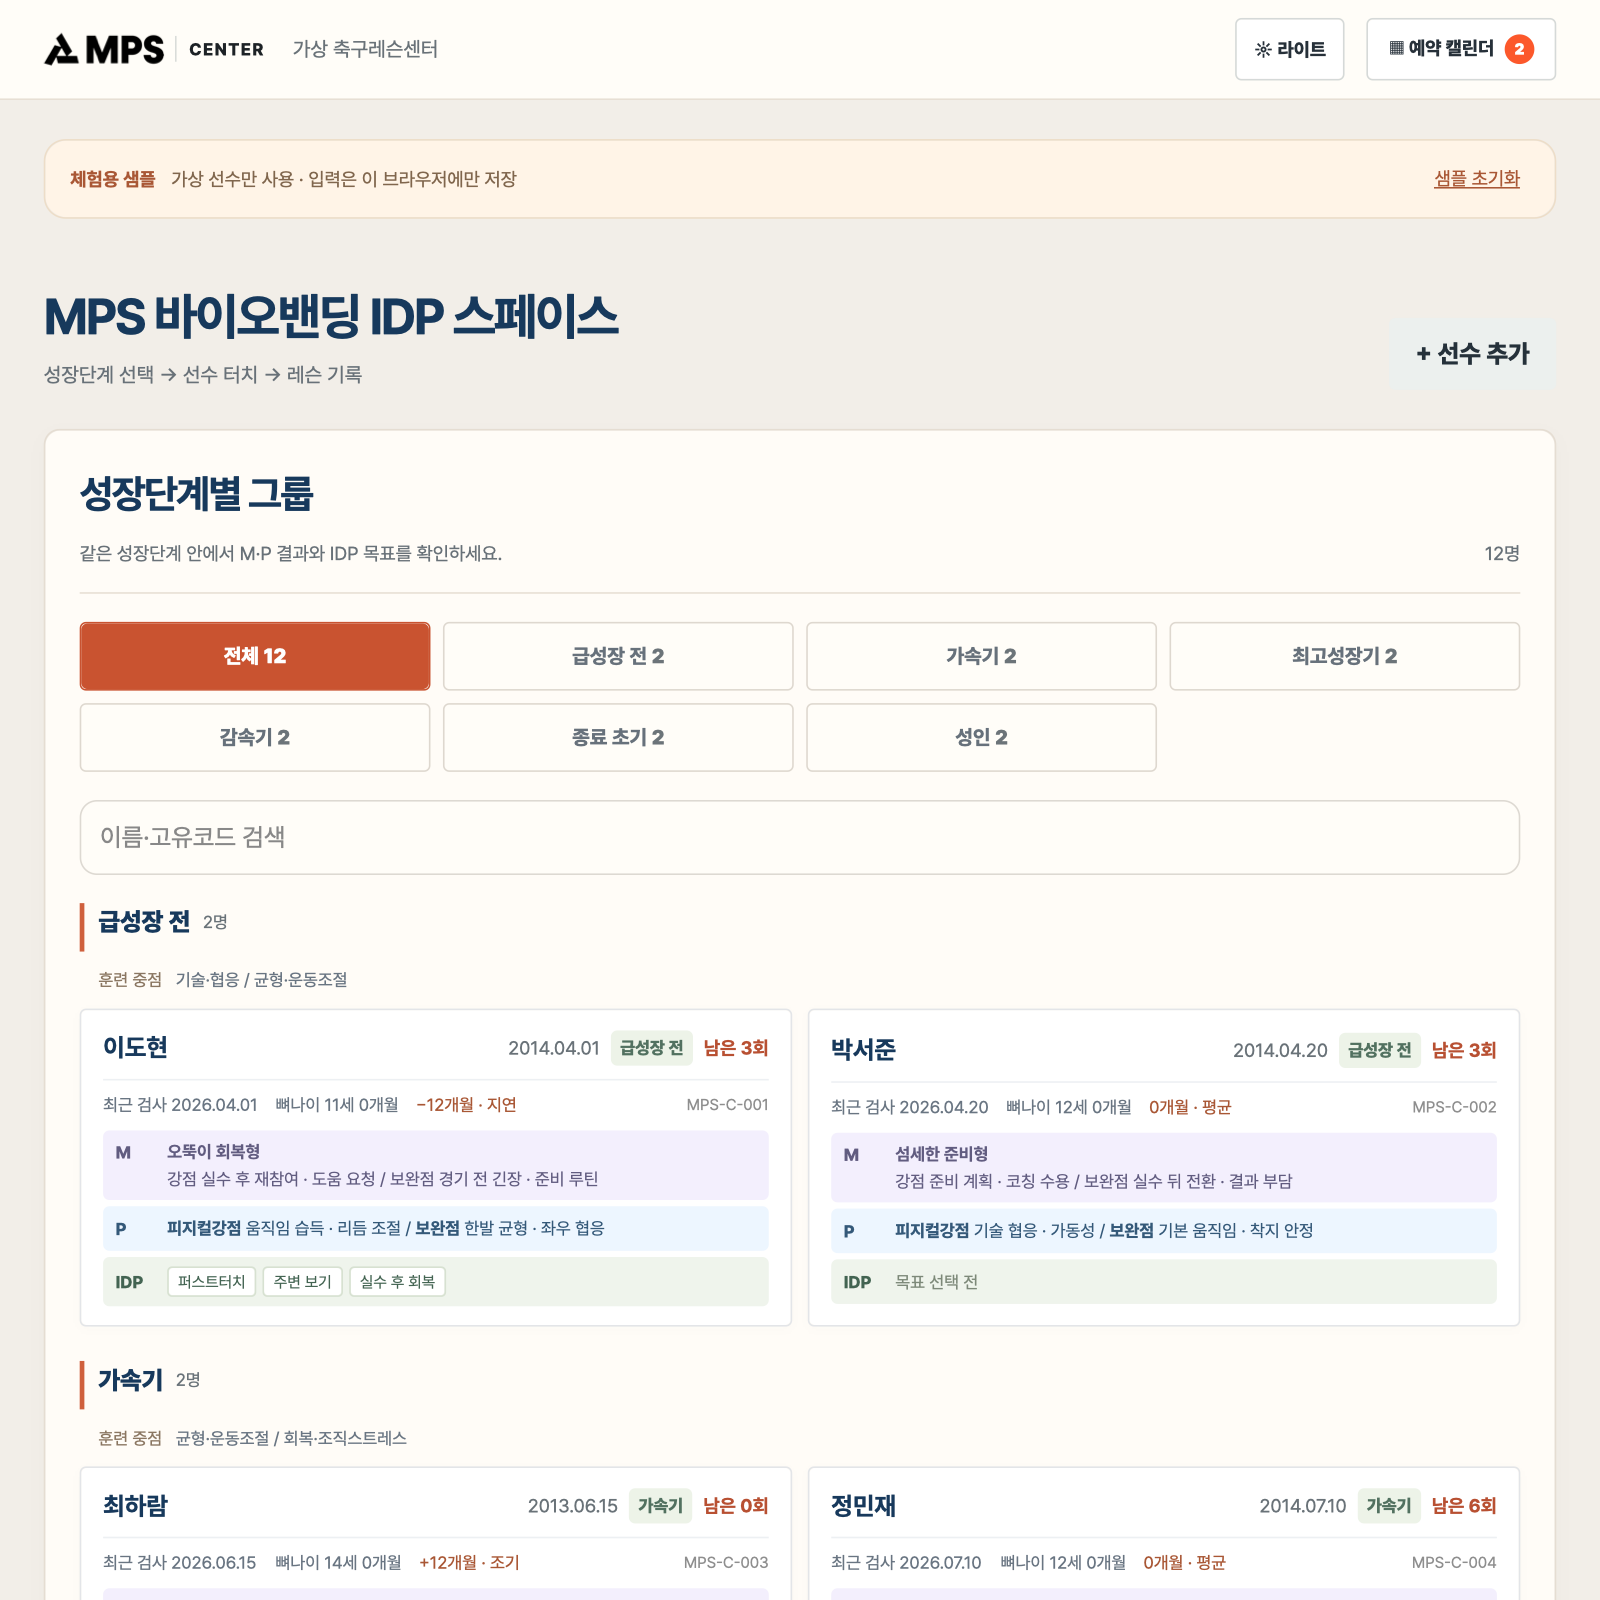
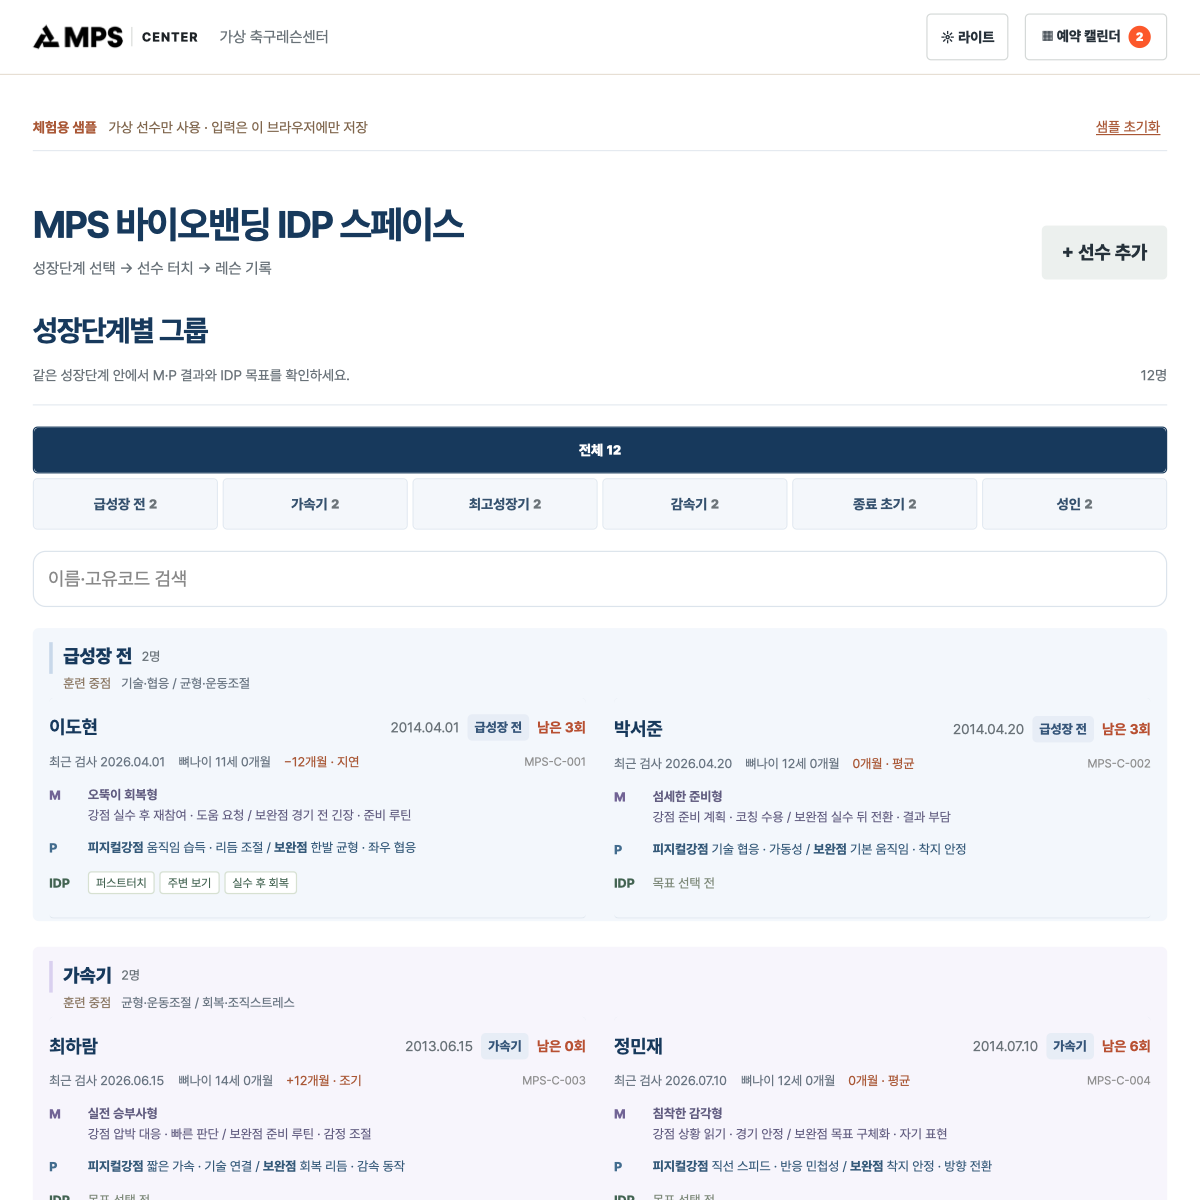
Match physical report colors on white canvas and refine iPhone controls

diff --git a/style.css b/style.css
@@ -627,3 +627,82 @@ button,.button{border-radius:4px!important}
 :root[data-theme="light"] .player-tabs button.active{background:#fff2e9;border-color:#c95330;color:#17395c;-webkit-text-fill-color:#17395c}
 :root[data-theme="light"] .focus-optional summary .focus-select-action{background:#c95330;color:#fff}
 @media(max-width:700px){.stage-group-head{padding-left:9px}.stage-physical-focus{padding-left:12px}.player-tabs button{font-size:16px}.focus-optional summary{gap:8px}.theme-toggle{font-size:10px;padding:7px 6px}.shell .roster.panel{padding:0}.stats strong{font-size:21px}}
+/* White report canvas with subtle section tones and landscape controls. */
+html{-webkit-text-size-adjust:100%;text-size-adjust:100%}
+button,input,select,textarea{min-width:0}
+.stage-filters{grid-template-columns:repeat(6,minmax(0,1fr));gap:4px}
+.stage-chip,.stage-chip:not(.all){display:flex;flex-direction:row;align-items:center;justify-content:center;gap:3px;height:44px;min-height:44px;padding:4px 3px;font-size:12px;line-height:1.15;border-radius:4px;overflow-wrap:normal}
+.stage-chip span,.stage-chip:not(.all) span{min-width:0;overflow-wrap:normal;word-break:keep-all}
+.stage-chip b,.stage-chip:not(.all) b{flex:none;margin:0;font-size:11px}
+.stage-chip.all{grid-column:1/-1;height:40px;min-height:40px}
+.stage-group{padding:12px 14px 2px;border-radius:5px;background:#ffffff03}
+.stage-group:nth-child(even){background:#799bf407}
+.player-card-button{border-bottom-color:#ffffff15}
+.player-tabs button{min-height:48px;height:48px;white-space:nowrap}
+.focus-select-action{min-width:92px;white-space:nowrap}
+.calendar-nav button{width:54px;height:36px;border-radius:4px}
+.player-modal-head button,.dialog-head>button{min-width:48px;width:48px;min-height:36px;height:36px;display:grid;place-items:center;padding:0}
+:root[data-theme="light"]{--report-paper:#fff;--line:#dfe7ee}
+:root[data-theme="light"] body,:root[data-theme="light"] .shell,:root[data-theme="light"] .topbar{background:#fff}
+:root[data-theme="light"] .demo,:root[data-theme="light"] .roster .panel-head{border-color:#e5eaf0}
+:root[data-theme="light"] .stage-group{background:#f3f7fc}
+:root[data-theme="light"] .stage-group:nth-child(even){background:#f7f5fc}
+:root[data-theme="light"] .stage-group-head{border-color:#c8d8ea}
+:root[data-theme="light"] .stage-group:nth-child(even) .stage-group-head{border-color:#d9d0ef}
+:root[data-theme="light"] .stage-chip{background:#f4f7fb;border-color:#e3eaf2;color:#35516e}
+:root[data-theme="light"] .stage-chip.active{background:#17395c;border-color:#17395c}
+:root[data-theme="light"] .stage-chip.active b{color:#fff}
+:root[data-theme="light"] .search-label input{background:#fff;border-color:#dce4ec}
+:root[data-theme="light"] .player-card-button,:root[data-theme="light"] .player-card-button.selected{border-bottom-color:#dee6ee}
+:root[data-theme="light"] .player-card-button:hover{background:#ffffff80}
+:root[data-theme="light"] .compact-stage{background:#e7edf6;color:#355579}
+:root[data-theme="light"] .stats{background:#f1f5fa;border:0;border-radius:5px}
+:root[data-theme="light"] .stats article+article{border-color:#dce5ef}
+:root[data-theme="light"] .shell .access.panel{padding:16px;background:#f6f4fb;border:0;border-radius:5px}
+:root[data-theme="light"] .player-modal-head,:root[data-theme="light"] #player-detail-dialog .detail{background:#fff}
+:root[data-theme="light"] .player-tabs button{background:#f1f5fa;border-color:#dce5ef}
+:root[data-theme="light"] .player-tabs button.active{background:#e8eff9;border-color:#94b1d3}
+:root[data-theme="light"] #player-detail-dialog .growth-panel{background:#edf6ff;border:0}
+:root[data-theme="light"] .compact-insights{border:0}
+:root[data-theme="light"] .insight-strip{background:#f3effc;border:0}
+:root[data-theme="light"] .insight-strip.physical{background:#f1f5fa;border:0}
+:root[data-theme="light"] .calendar-main{background:#f2f6fb;border:0}
+:root[data-theme="light"] .calendar-side{background:#f7f5fc;border:0}
+@media(max-width:700px){
+ .shell{width:100%;padding:16px 12px max(32px,env(safe-area-inset-bottom))}
+ .topbar{gap:8px;padding:10px 12px;padding-top:max(10px,env(safe-area-inset-top))}
+ .heading h1{font-size:24px;line-height:1.25}
+ .stage-filters{gap:2px}
+ .stage-chip,.stage-chip:not(.all){height:44px;min-height:44px;padding:3px 2px;gap:2px;font-size:11px;line-height:1.1}
+ .stage-chip:not(.all) span{max-width:none}
+ .stage-chip b,.stage-chip:not(.all) b{font-size:10px;margin:0}
+ .stage-chip.all{height:40px;min-height:40px;font-size:12px}
+ .stage-group{padding:10px 10px 0}
+ .stage-group-head{padding-left:8px}
+ .stage-players{gap:0}
+ .player-card-button{padding:12px 0 14px}
+ .compact-top{gap:4px}
+ .compact-top strong{font-size:14px}
+ .compact-dob{font-size:10px}
+ .compact-stage{font-size:10px;padding:2px 3px}
+ .compact-remaining{font-size:10px}
+ .calendar-label-extra{display:none}
+ .calendar-trigger{white-space:nowrap;padding:7px 8px}
+ .header-actions{gap:4px}
+ .theme-toggle{font-size:10px;padding:6px;min-height:36px}
+ #player-detail-dialog{max-height:calc(100dvh - env(safe-area-inset-top) - 12px)}
+ #player-detail-dialog .detail{padding:14px 12px max(24px,env(safe-area-inset-bottom))}
+ .player-tabs button{font-size:16px}
+ .focus-optional summary{font-size:13px}
+ .focus-optional summary .focus-select-action{padding:8px;min-width:92px}
+ .calendar-modal{padding:14px 12px max(20px,env(safe-area-inset-bottom))}
+ .calendar-main,.calendar-side{padding:12px}
+ .weekdays,.day-grid{gap:2px}
+ .day-grid button,.day-grid .blank{position:relative;min-height:32px;height:32px;padding:3px;font-size:11px;line-height:1.1;border-radius:3px}
+ .day-grid button small{position:absolute;right:2px;bottom:2px;font-size:8px;line-height:1}
+ .day-grid button.has-bookings:after{position:absolute;right:3px;top:4px;margin:0;width:3px;height:3px}
+ input,select,textarea,.calendar-side input,.calendar-side select,dialog input,dialog select{font-size:16px;max-width:100%}
+ .form-pair>*{min-width:0}
+}
+@media(max-width:359px){.brand span{display:none}.heading h1{font-size:22px}.compact-top{gap:3px}.compact-dob{font-size:9px}.compact-stage{font-size:9px}.compact-top strong{font-size:13px}.player-tabs button{font-size:15px}}
+@media(max-width:700px){.stage-chip:not(.all) span{overflow-wrap:anywhere;word-break:keep-all;flex:0 1 auto}.detail-head>div>p:last-child{font-size:12px;line-height:1.5}}

diff --git a/index-light.html b/index-light.html
@@ -1,8 +1,8 @@
 <!doctype html>
 <html lang="ko" data-initial-theme="light">
-<head><meta charset="utf-8"><meta name="viewport" content="width=device-width, initial-scale=1"><meta name="description" content="MPS 레슨센터 지도자용 선수관리 대시보드 샘플"><title>MPS Center | 선수관리 샘플 · 라이트</title><link rel="stylesheet" href="style.css"></head>
+<head><meta charset="utf-8"><meta name="viewport" content="width=device-width, initial-scale=1, viewport-fit=cover"><meta name="description" content="MPS 레슨센터 지도자용 선수관리 대시보드 샘플"><title>MPS Center | 선수관리 샘플 · 라이트</title><link rel="stylesheet" href="style.css"></head>
 <body>
-  <header class="topbar"><div class="brand"><img src="logo.png" alt="MPS"><span>CENTER</span></div><span class="center-name">가상 축구레슨센터</span><div class="header-actions"><button id="theme-toggle" class="theme-toggle" type="button" aria-label="라이트 모드로 변경" aria-pressed="false">☼ <span>라이트</span></button><button id="calendar-open" class="calendar-trigger" type="button" aria-haspopup="dialog">▦ 예약 캘린더 <b id="upcoming-count">0</b></button></div></header>
+  <header class="topbar"><div class="brand"><img src="logo.png" alt="MPS"><span>CENTER</span></div><span class="center-name">가상 축구레슨센터</span><div class="header-actions"><button id="theme-toggle" class="theme-toggle" type="button" aria-label="라이트 모드로 변경" aria-pressed="false">☼ <span>라이트</span></button><button id="calendar-open" class="calendar-trigger" type="button" aria-haspopup="dialog">▦ <span class="calendar-label">예약<span class="calendar-label-extra"> 캘린더</span></span> <b id="upcoming-count">0</b></button></div></header>
   <main class="shell">
     <div class="demo"><b>체험용 샘플</b><span>가상 선수만 사용 · 입력은 이 브라우저에만 저장</span><button id="reset" type="button">샘플 초기화</button></div>
     <div class="heading"><div><h1>MPS 바이오밴딩 IDP 스페이스</h1><p>성장단계 선택 → 선수 터치 → 레슨 기록</p></div><button class="button soft" id="add-player" type="button">+ 선수 추가</button></div>

diff --git a/index.html b/index.html
@@ -1,8 +1,8 @@
 <!doctype html>
 <html lang="ko" data-initial-theme="light">
-<head><meta charset="utf-8"><meta name="viewport" content="width=device-width, initial-scale=1"><meta name="description" content="MPS 레슨센터 지도자용 선수관리 대시보드 샘플"><title>MPS Center | 선수관리 샘플</title><link rel="stylesheet" href="style.css"></head>
+<head><meta charset="utf-8"><meta name="viewport" content="width=device-width, initial-scale=1, viewport-fit=cover"><meta name="description" content="MPS 레슨센터 지도자용 선수관리 대시보드 샘플"><title>MPS Center | 선수관리 샘플</title><link rel="stylesheet" href="style.css"></head>
 <body>
-  <header class="topbar"><div class="brand"><img src="logo.png" alt="MPS"><span>CENTER</span></div><span class="center-name">가상 축구레슨센터</span><div class="header-actions"><button id="theme-toggle" class="theme-toggle" type="button" aria-label="라이트 모드로 변경" aria-pressed="false">☼ <span>라이트</span></button><button id="calendar-open" class="calendar-trigger" type="button" aria-haspopup="dialog">▦ 예약 캘린더 <b id="upcoming-count">0</b></button></div></header>
+  <header class="topbar"><div class="brand"><img src="logo.png" alt="MPS"><span>CENTER</span></div><span class="center-name">가상 축구레슨센터</span><div class="header-actions"><button id="theme-toggle" class="theme-toggle" type="button" aria-label="라이트 모드로 변경" aria-pressed="false">☼ <span>라이트</span></button><button id="calendar-open" class="calendar-trigger" type="button" aria-haspopup="dialog">▦ <span class="calendar-label">예약<span class="calendar-label-extra"> 캘린더</span></span> <b id="upcoming-count">0</b></button></div></header>
   <main class="shell">
     <div class="demo"><b>체험용 샘플</b><span>가상 선수만 사용 · 입력은 이 브라우저에만 저장</span><button id="reset" type="button">샘플 초기화</button></div>
     <div class="heading"><div><h1>MPS 바이오밴딩 IDP 스페이스</h1><p>성장단계 선택 → 선수 터치 → 레슨 기록</p></div><button class="button soft" id="add-player" type="button">+ 선수 추가</button></div>
